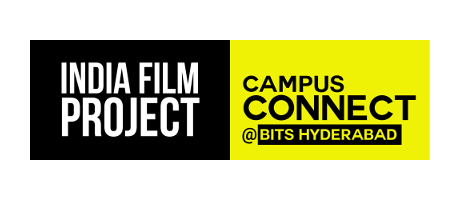
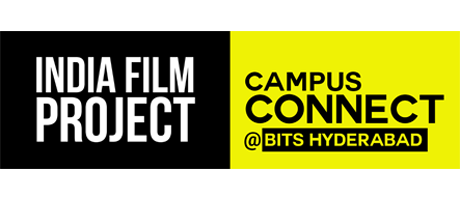
sponsors: Edit details.

diff --git a/public/static/stylesheets/sponsors.style.css b/public/static/stylesheets/sponsors.style.css
@@ -24,10 +24,12 @@
 }
 .module-sponsors .sponsors > li > a {
     display:block;
+    padding: 1em;
+    box-sizing: border-box;
     position: relative;
 }
 .module-sponsors .sponsors > li > a > img {
-    width: 300px;
+    width: 100%;
     border-radius: 5px;
 }
 .module-sponsors .sponsors > li > a > span {
@@ -45,6 +47,6 @@
         width: 230px;
     }
     .module-sponsors .sponsors > li > a {
-	
+
     }
 }
